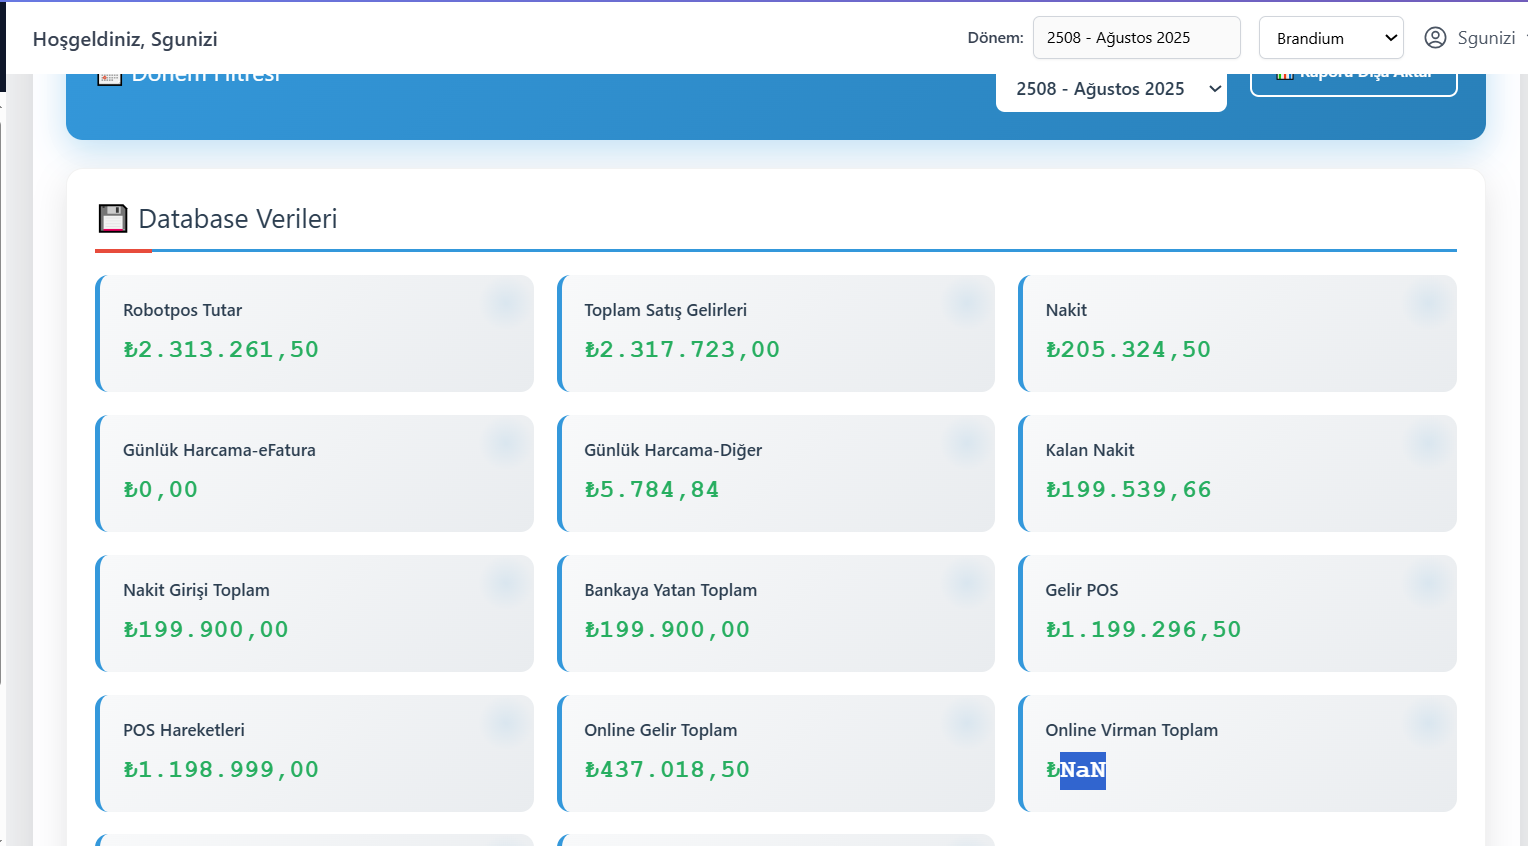
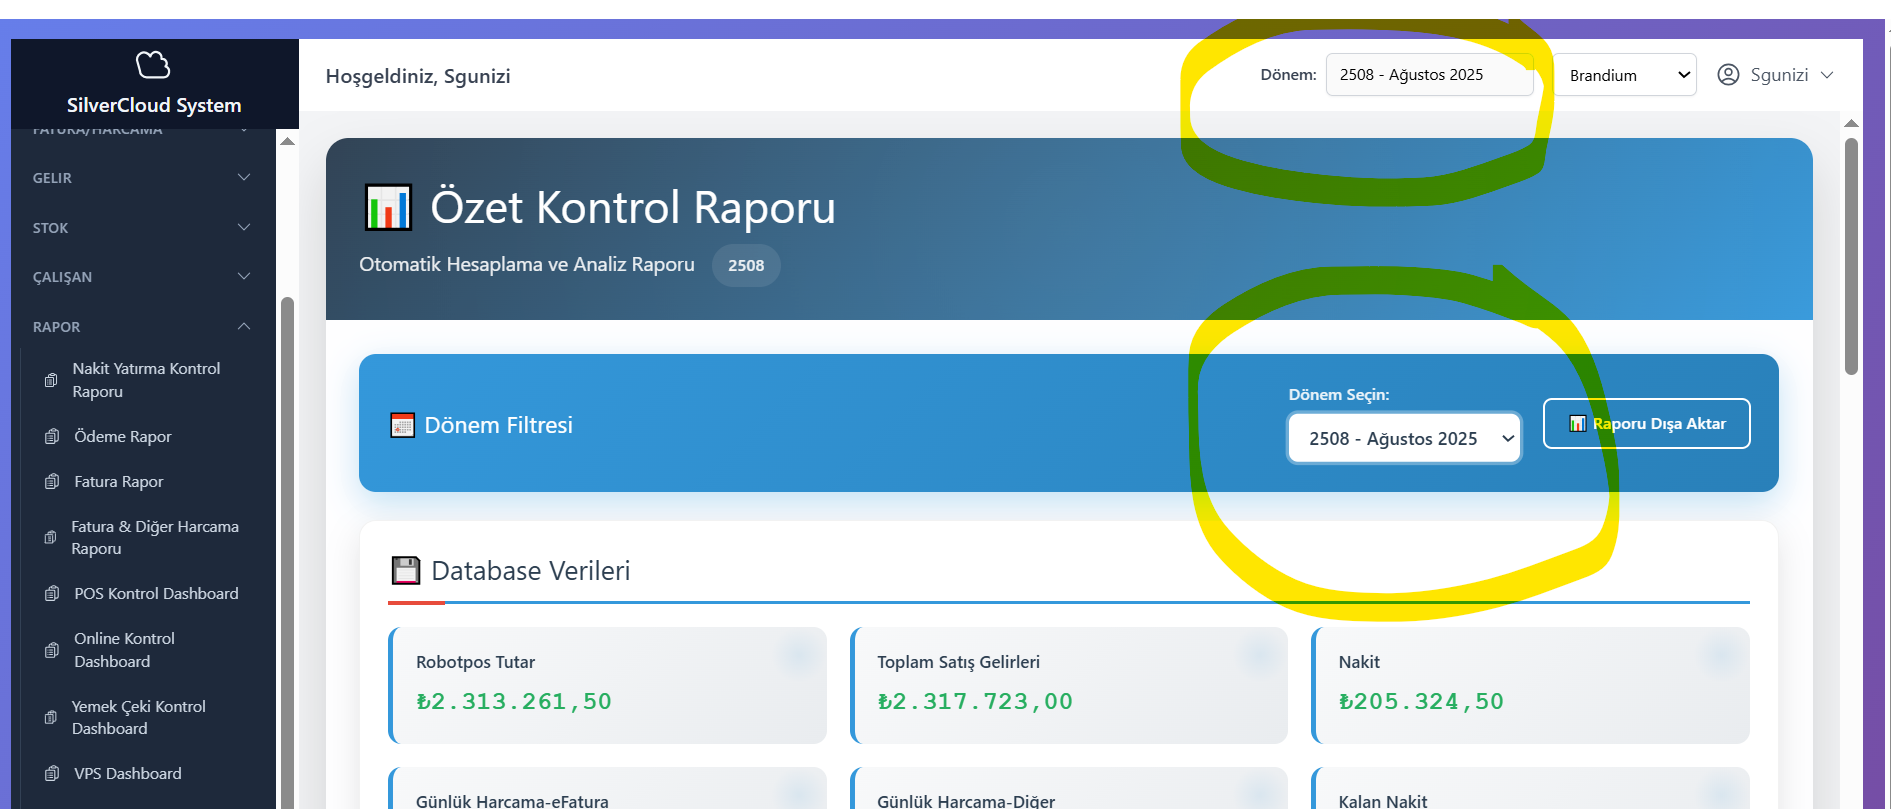
Feature: Özet Kontrol Raporu -ek8

diff --git a/CopyCat/pages/OzetKontrolRaporuPage.tsx b/CopyCat/pages/OzetKontrolRaporuPage.tsx
@@ -13,7 +13,8 @@ const AccessDenied: React.FC<{ title: string }> = ({ title }) => (
 );
 
 export const OzetKontrolRaporuPage: React.FC = () => {
-    const { hasPermission, selectedBranch, currentPeriod, setPeriod } = useAppContext();
+    const { hasPermission, selectedBranch, currentPeriod } = useAppContext();
+    const [reportPeriod, setReportPeriod] = useState(currentPeriod);
     const pageTitle = "Özet Kontrol Raporu";
     const requiredPermission = OZET_KONTROL_RAPORU_YETKI_ADI;
     const [periodOptions, setPeriodOptions] = useState<string[]>([]);
@@ -52,21 +53,21 @@ export const OzetKontrolRaporuPage: React.FC = () => {
     }, []);
 
     useEffect(() => {
-        if (selectedBranch && currentPeriod) {
+        if (selectedBranch && reportPeriod) {
             Promise.all([
-                fetch(`${API_BASE_URL}/ozet-kontrol-raporu/robotpos-tutar/${selectedBranch.Sube_ID}/${currentPeriod}`).then(res => res.json()),
-                fetch(`${API_BASE_URL}/ozet-kontrol-raporu/toplam-satis-gelirleri/${selectedBranch.Sube_ID}/${currentPeriod}`).then(res => res.json()),
-                fetch(`${API_BASE_URL}/ozet-kontrol-raporu/nakit/${selectedBranch.Sube_ID}/${currentPeriod}`).then(res => res.json()),
-                fetch(`${API_BASE_URL}/ozet-kontrol-raporu/gunluk-harcama-diger/${selectedBranch.Sube_ID}/${currentPeriod}`).then(res => res.json()),
-                fetch(`${API_BASE_URL}/ozet-kontrol-raporu/gunluk-harcama-efatura/${selectedBranch.Sube_ID}/${currentPeriod}`).then(res => res.json()),
-                fetch(`${API_BASE_URL}/ozet-kontrol-raporu/nakit-girisi-toplam/${selectedBranch.Sube_ID}/${currentPeriod}`).then(res => res.json()),
-                fetch(`${API_BASE_URL}/ozet-kontrol-raporu/bankaya-yatan-toplam/${selectedBranch.Sube_ID}/${currentPeriod}`).then(res => res.json()),
-                fetch(`${API_BASE_URL}/ozet-kontrol-raporu/gelir-pos-toplam/${selectedBranch.Sube_ID}/${currentPeriod}`).then(res => res.json()),
-                fetch(`${API_BASE_URL}/ozet-kontrol-raporu/pos-hareketleri-toplam/${selectedBranch.Sube_ID}/${currentPeriod}`).then(res => res.json()),
-                fetch(`${API_BASE_URL}/ozet-kontrol-raporu/online-gelir-toplam/${selectedBranch.Sube_ID}/${currentPeriod}`).then(res => res.json()),
-                fetch(`${API_BASE_URL}/ozet-kontrol-raporu/online-virman-toplam/${selectedBranch.Sube_ID}/${currentPeriod}`).then(res => res.json()),
-                fetch(`${API_BASE_URL}/ozet-kontrol-raporu/yemek-ceki-aylik-gelir-toplam/${selectedBranch.Sube_ID}/${currentPeriod}`).then(res => res.json()),
-                fetch(`${API_BASE_URL}/ozet-kontrol-raporu/yemek-ceki-donem-toplam/${selectedBranch.Sube_ID}/${currentPeriod}`).then(res => res.json())
+                fetch(`${API_BASE_URL}/ozet-kontrol-raporu/robotpos-tutar/${selectedBranch.Sube_ID}/${reportPeriod}`).then(res => res.json()),
+                fetch(`${API_BASE_URL}/ozet-kontrol-raporu/toplam-satis-gelirleri/${selectedBranch.Sube_ID}/${reportPeriod}`).then(res => res.json()),
+                fetch(`${API_BASE_URL}/ozet-kontrol-raporu/nakit/${selectedBranch.Sube_ID}/${reportPeriod}`).then(res => res.json()),
+                fetch(`${API_BASE_URL}/ozet-kontrol-raporu/gunluk-harcama-diger/${selectedBranch.Sube_ID}/${reportPeriod}`).then(res => res.json()),
+                fetch(`${API_BASE_URL}/ozet-kontrol-raporu/gunluk-harcama-efatura/${selectedBranch.Sube_ID}/${reportPeriod}`).then(res => res.json()),
+                fetch(`${API_BASE_URL}/ozet-kontrol-raporu/nakit-girisi-toplam/${selectedBranch.Sube_ID}/${reportPeriod}`).then(res => res.json()),
+                fetch(`${API_BASE_URL}/ozet-kontrol-raporu/bankaya-yatan-toplam/${selectedBranch.Sube_ID}/${reportPeriod}`).then(res => res.json()),
+                fetch(`${API_BASE_URL}/ozet-kontrol-raporu/gelir-pos-toplam/${selectedBranch.Sube_ID}/${reportPeriod}`).then(res => res.json()),
+                fetch(`${API_BASE_URL}/ozet-kontrol-raporu/pos-hareketleri-toplam/${selectedBranch.Sube_ID}/${reportPeriod}`).then(res => res.json()),
+                fetch(`${API_BASE_URL}/ozet-kontrol-raporu/online-gelir-toplam/${selectedBranch.Sube_ID}/${reportPeriod}`).then(res => res.json()),
+                fetch(`${API_BASE_URL}/ozet-kontrol-raporu/online-virman-toplam/${selectedBranch.Sube_ID}/${reportPeriod}`).then(res => res.json()),
+                fetch(`${API_BASE_URL}/ozet-kontrol-raporu/yemek-ceki-aylik-gelir-toplam/${selectedBranch.Sube_ID}/${reportPeriod}`).then(res => res.json()),
+                fetch(`${API_BASE_URL}/ozet-kontrol-raporu/yemek-ceki-donem-toplam/${selectedBranch.Sube_ID}/${reportPeriod}`).then(res => res.json())
             ]).then(data => {
                 setDatabaseData({
                     robotposTutar: data[0],
@@ -85,7 +86,7 @@ export const OzetKontrolRaporuPage: React.FC = () => {
                 });
             });
         }
-    }, [selectedBranch, currentPeriod]);
+    }, [selectedBranch, reportPeriod]);
 
     const formatCurrency = (amount: number) => {
         return new Intl.NumberFormat('tr-TR', {
@@ -146,7 +147,7 @@ export const OzetKontrolRaporuPage: React.FC = () => {
     }, [calculations]);
 
     const handlePeriodChange = (e: React.ChangeEvent<HTMLSelectElement>) => {
-        setPeriod(e.target.value);
+        setReportPeriod(e.target.value);
     }
 
     if (!hasPermission(requiredPermission)) {
@@ -592,7 +593,7 @@ export const OzetKontrolRaporuPage: React.FC = () => {
                     <div className="header-content">
                         <div>
                             <h1>📊 Özet Kontrol Raporu</h1>
-                            <p>Otomatik Hesaplama ve Analiz Raporu <span className="current-period" id="currentPeriod">{currentPeriod}</span></p>
+                            <p>Otomatik Hesaplama ve Analiz Raporu <span className="current-period" id="currentPeriod">{reportPeriod}</span></p>
                         </div>
                     </div>
                 </div>
@@ -606,7 +607,7 @@ export const OzetKontrolRaporuPage: React.FC = () => {
                             <div className="filter-controls">
                                 <div className="filter-group">
                                     <label htmlFor="periodSelect">Dönem Seçin:</label>
-                                    <select id="periodSelect" value={currentPeriod} onChange={handlePeriodChange}>
+                                    <select id="periodSelect" value={reportPeriod} onChange={handlePeriodChange}>
                                         {periodOptions.map(period => (
                                             <option key={period} value={period}>{`${period.substring(0, 2)}${period.substring(2, 4)} - ${new Date(2000 + parseInt(period.substring(0, 2)), parseInt(period.substring(2, 4)) - 1).toLocaleString('tr-TR', { month: 'long' })} ${2000 + parseInt(period.substring(0, 2))}`}</option>
                                         ))}
